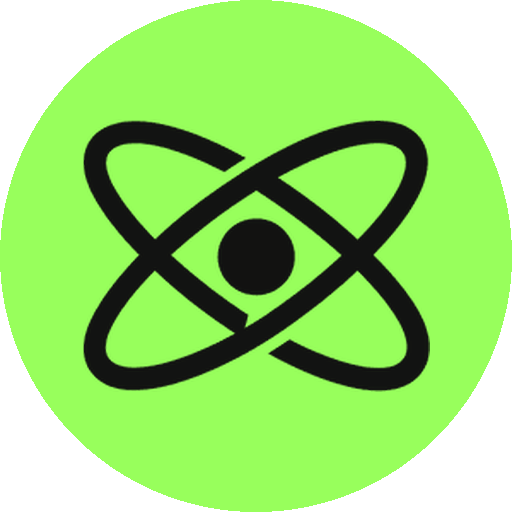
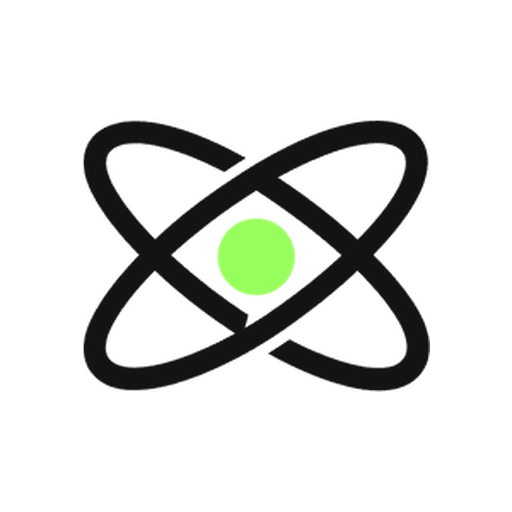
탭 아이콘 판을 키위 → 흰색으로 (대표 지시 08-16)
⭐흰 판이라 **마크를 한 픽셀도 안 고친다.** 초록 점이 그대로 살아 화면의 로고와 같은 그림이 된다.
  키위 판일 땐 키위 점이 안 보여 점을 먹색으로 눌러야 했는데, 그 손질이 통째로 없어졌다.

🎨#FFFFFF 다. 크림빛(#FBFAF6)은 07-31에 사이트 배경에서 걷어낸 색이라 여기서도 안 쓴다.

원판을 까는 이유는 그대로다 — 투명 배경 마크는 어두운 탭바에서 먹색 궤도가 배경에 묻힌다.
16px 라이트·다크 양쪽 확인, apple-icon 도 흰 정사각으로 맞춤.

확인: build 통과 · favicon.ico 3프레임(16/32/48)

diff --git a/assets/build-icons.py b/assets/build-icons.py
@@ -4,61 +4,45 @@
   src/app/favicon.ico   16/32/48 원판 (구형 브라우저·윈도우 작업표시줄이 각각 다른 크기를 집는다)
   src/app/apple-icon.png 180 정사각 (iOS 홈 화면)
 
-⚠왜 원판인가 — 마크를 투명 배경 그대로 두면 **어두운 탭바에서 먹색 궤도가 배경에 묻힌다.**
-  원판이 배경 대신 대비를 만들어 라이트·다크 양쪽에서 같은 세기로 읽힌다. (대표 지시 08-16)
+⚠왜 배경을 까는가 — 마크를 투명 배경 그대로 두면 **어두운 탭바에서 먹색 궤도가 배경에 묻힌다.**
+  흰 판이 배경 대신 대비를 만들어 라이트·다크 양쪽에서 같은 세기로 읽힌다. (대표 지시 08-16)
+
+⚠판은 흰색이다. 키위 원판도 만들어 봤지만 대표가 흰색을 골랐다(08-16).
+  ⭐흰 판이라 **마크를 한 픽셀도 안 고친다** — 초록 점이 그대로 살아 로고와 같은 그림이 된다.
+    키위 판이었다면 키위 점이 안 보여 점을 먹색으로 눌러야 했다.
+  🎨#FFFFFF 다 — 크림빛(#FBFAF6)은 07-31에 사이트 배경에서 걷어낸 색이라 여기서도 안 쓴다.
 
 ⚠애플 아이콘만 원판이 아니다 — iOS는 투명한 자리를 검게 칠하고 모서리는 제 손으로 깎는다.
   원판을 주면 검은 사각형 위에 뜬 원이 된다.
-
-⚠마크의 초록 점은 원판 위에서 먹색으로 바꾼다. 키위 원판 위에 키위 점은 안 보인다.
-  로고 자체(public/logo-*.png)는 건드리지 않는다 — 여기서 만드는 건 탭 아이콘뿐이다.
 """
-import colorsys
 from PIL import Image, ImageDraw
 
-KIWI, INK = (0x98, 0xFF, 0x5C), (0x11, 0x11, 0x11)
+PAPER = (0xFF, 0xFF, 0xFF)
 SRC = "public/logo-mark.png"
-PAD = 0.68          # 원판 지름 대비 마크 폭. 더 키우면 궤도 끝이 테두리에 붙어 답답해진다
-
-
-def flatten(img, to):
-    """초록 점만 to 색으로. 알파는 그대로 둬야 가장자리가 안 깨진다."""
-    out = img.copy()
-    px = out.load()
-    for y in range(out.height):
-        for x in range(out.width):
-            r, g, b, a = px[x, y]
-            if a == 0:
-                continue
-            h, s, v = colorsys.rgb_to_hsv(r / 255, g / 255, b / 255)
-            if 0.15 < h < 0.48 and s > 0.25 and v > 0.30:
-                px[x, y] = (*to, a)
-    return out
+PAD = 0.68          # 판 지름 대비 마크 폭. 더 키우면 궤도 끝이 테두리에 붙어 답답해진다
 
 
 def place(mark, size, pad):
     w = int(size * pad)
     h = round(w * mark.height / mark.width)
-    r = mark.resize((w, h), Image.LANCZOS)
-    return r, ((size - w) // 2, (size - h) // 2)
+    return mark.resize((w, h), Image.LANCZOS), ((size - w) // 2, (size - h) // 2)
 
 
 mark = Image.open(SRC).convert("RGBA")
-mark = mark.crop(mark.getchannel("A").getbbox())   # 여백을 걷어내야 원판 안에서 중심이 맞는다
-dark = flatten(mark, INK)
+mark = mark.crop(mark.getchannel("A").getbbox())   # 여백을 걷어내야 판 안에서 중심이 맞는다
 
 # ── 원판 (탭)
 disc = Image.new("RGBA", (512, 512), (0, 0, 0, 0))
-ImageDraw.Draw(disc).ellipse([0, 0, 511, 511], fill=(*KIWI, 255))
-disc.alpha_composite(*place(dark, 512, PAD))
+ImageDraw.Draw(disc).ellipse([0, 0, 511, 511], fill=(*PAPER, 255))
+disc.alpha_composite(*place(mark, 512, PAD))
 disc.save("src/app/icon.png")
 # ⚠ICO는 `sizes`에 준 크기들을 **원본에서 각각 줄여** 담는다. 미리 16으로 줄여 넘기면
 #   그걸 32·48로 되키운 뭉갠 프레임이 들어간다 — 반드시 512짜리를 그대로 넘길 것.
 disc.save("src/app/favicon.ico", format="ICO", sizes=[(16, 16), (32, 32), (48, 48)])
 
 # ── 정사각 (iOS)
-sq = Image.new("RGBA", (180, 180), (*KIWI, 255))
-sq.alpha_composite(*place(dark, 180, 0.62))
+sq = Image.new("RGBA", (180, 180), (*PAPER, 255))
+sq.alpha_composite(*place(mark, 180, 0.62))
 sq.save("src/app/apple-icon.png")
 
 print("icon.png 512 · favicon.ico 16/32/48 · apple-icon.png 180")
